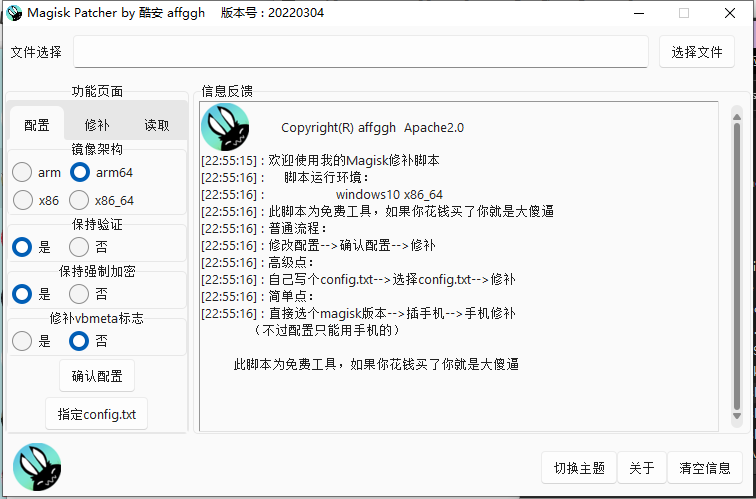
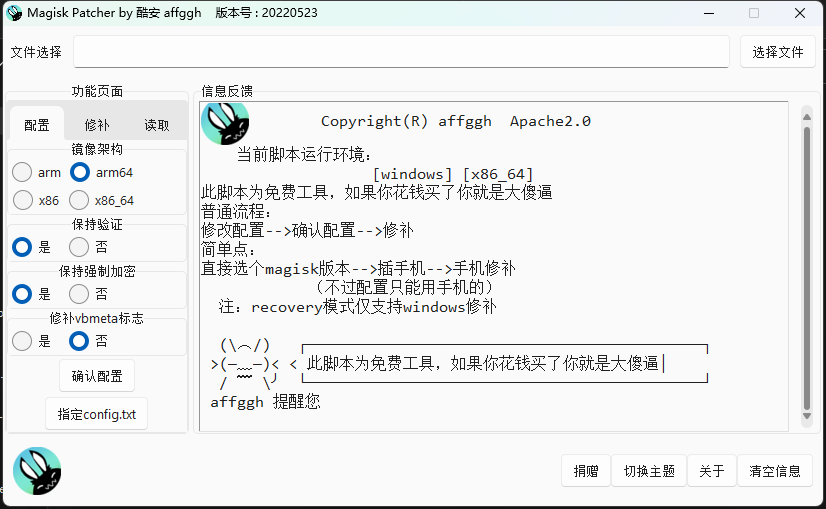
update readme file and screenshot

diff --git a/README.md b/README.md
@@ -1,85 +1,37 @@
 # Magisk_patcher
-*Patch boot with magisk on windows  
-Batch script support :
-                Windows 7 x86_64  
-GUI script support   :
-                Python 3.7 or newer  
-GUI binary support   :
-                Windows 10 x86_64  
+*Patch boot with magisk on windows/linux  
+Using python tkinter  
+Windows support:  
+    Windows 10, 11 amd64 only  
+Linux support:
+    Test on Ubuntu 20.04 LTS  
+    support arch :  
+        arm  
+        aarch64  
+        x86  
+        x86_64  
 # GUI screen shortcut
-![image](https://github.com/affggh/Magisk_patcher/raw/main/bin/gui.png)
+![image](https://hub.fastgit.xyz/affggh/Magisk_patcher/raw/main/bin/gui.png)
 # GUI THEME
 GUI ttk THEME from [Sun-Valley-ttk-theme](https://github.com/rdbende/Sun-Valley-ttk-theme)
-# Command line Usage:
-***
-```
-  magisk_patcher.bat command
-            -h    Print this help information...
-  Support Command:
-                 patch
-                 autoconfig
-                 test
-  Explain:
-         patch  : Patch a boot image with magisk on windows
-            -i    input file
- [optional] -o    output file  default output is [new-boot.img]
-            -c    read config.txt instead of -a -kv -ke -pv
-   [must]   -a    arch of your device... this can be 
-                               arm
-                               arm64
-                               x86
-                               x86_64
- [optional] -kv    keep verity default is : [true]
-                   If your device is system-as-root(sar)
-                       make it true
- [optional] -ke    keep force encrypt default is : [true]
-                   If your device is like forceencrypt=footer like [qsee] or else
-                       make it true
- [optional] -pv    Patch vbmeta flag default is : [false]
-                   If your device not have partition [vbmeta]
-                       make it true
- [optional] -m     Choose a Magisk install apk/zip insted of 
-                                 default : [prebuilt\magisk.apk]
-              Notice: Shell script part will auto detect file existance
-                      if is a 64bit image.
+# Requirements
+Windows:  
+    There is nothing need on windows  
+    python script support python3.8+  
+Linux:  
+    sudo apt install python3 python3-tk 
+    pip install mttkinter
+    sudo apt install adb # if you need read config from device  
+  
+NOTiCE : Batch script now has been removed, if you want using it   
+         please download release version 1.0
 
-         autoconfig : This function can auto detect config from device
-                      and generate a confit.txt at D:\cygwin\home\affggh\magiskboot_and_patch_win\MagiskPatcher\ 
-                      without root
-            --default  generate with default instead read from device
-            -m     Defined custom magisk path
-        patchondevice : patch on device
-                     In some reason patch on windows possibally failed...
-                     so we can use device environment to patch...
-                     The patch config will follow device instead choose
-            -m     Defined custom magisk path
-
-  Example : 
-          magisk_patcher.bat patch -i boot.img -c config.txt
-          magisk_patcher.bat patch -i boot.img -a armeabi-v7a -kv true -ke true -pv false
-          magisk_patcher.bat patch -i boot.img -c config.txt -m prebuilt\magisk.apk
-
-          magisk_patcher.bat autoconfig
-          magisk_patcher.bat autoconfig --default
-          magisk_patcher.bat autoconfig -m prebuilt\magisk.apk
-
-          magisk_patcher.bat patchondevice -i boot.img -m prebuilt\magisk.apk
-```
-# General use
-***
-```
-magisk_patcher.bat autoconfig --default
-magisk_patcher.bat patch -i boot.img -c config.txt
-```
-```
-magisk_patcher.bat patchondevice -i boot.img -m prebuilt\magisk.apk
-```
 # Thanks
 感谢：    
     [thka2016](https://github.com/thka2016) 帮我写了个很好用的功能    
 	[Magisk](https://github.com/topjohnwu/Magisk) 源码来自magisk    
 
 # Donate me
-![image](https://github.com/affggh/Magisk_patcher/raw/main/bin/alipay.png)
-![image](https://github.com/affggh/Magisk_patcher/raw/main/bin/wechat.png)
-![image](https://github.com/affggh/Magisk_patcher/raw/main/bin/zfbhb.png)
+![image](https://hub.fastgit.xyz/affggh/Magisk_patcher/raw/main/bin/alipay.png)
+![image](https://hub.fastgit.xyz/Magisk_patcher/raw/main/bin/wechat.png)
+![image](https://hub.fastgit.xyz/affggh/Magisk_patcher/raw/main/bin/zfbhb.png)
